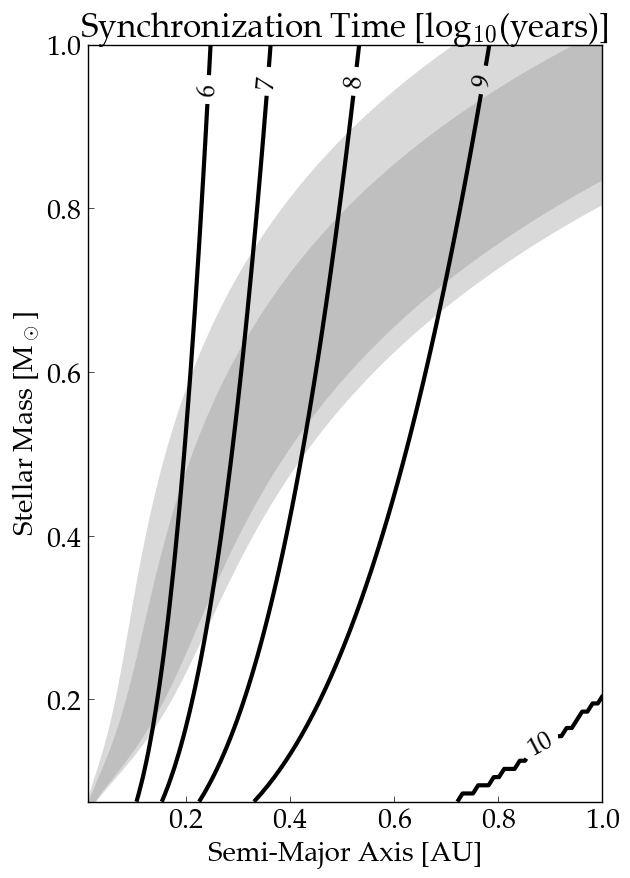
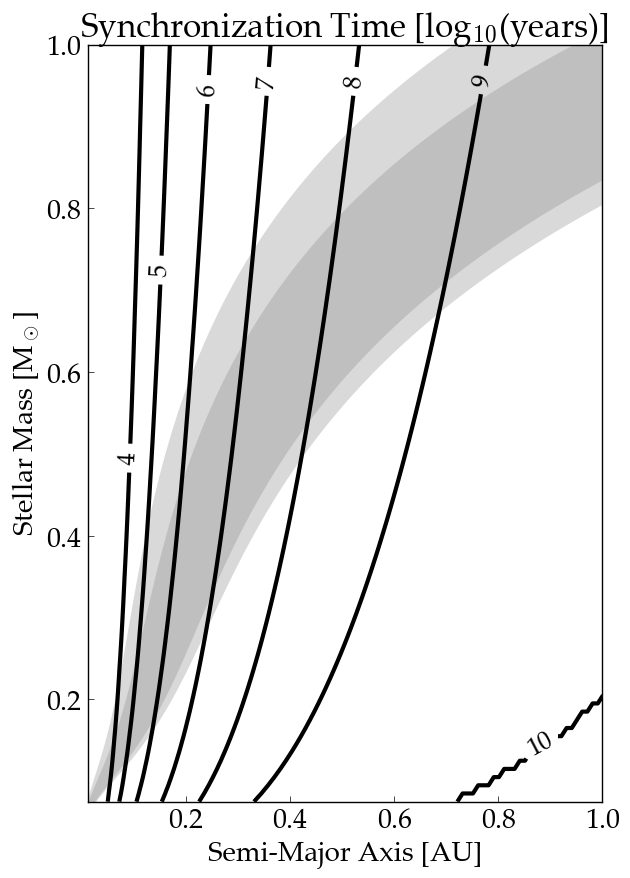
Modified makeplot.py to plot 10^4 and 10^5 year contour lines.

Changed region(s): [[0.1508, 0.0615, 0.2714, 0.9226]]

diff --git a/makeplot.py b/makeplot.py
@@ -206,7 +206,7 @@ plt.xlim(0.01,1)
 plt.ylim(0.075,1)
 
 ContSet = plt.contour(semi,star,tsync,5,colors='black',linestyles='solid',
-                      levels=[6,7,8,9,10],linewidths=3)
+                      levels=[4,5,6,7,8,9,10],linewidths=3)
 plt.clabel(ContSet,fmt="%.0f",inline=True,fontsize=18)
 
 plt.tight_layout()
